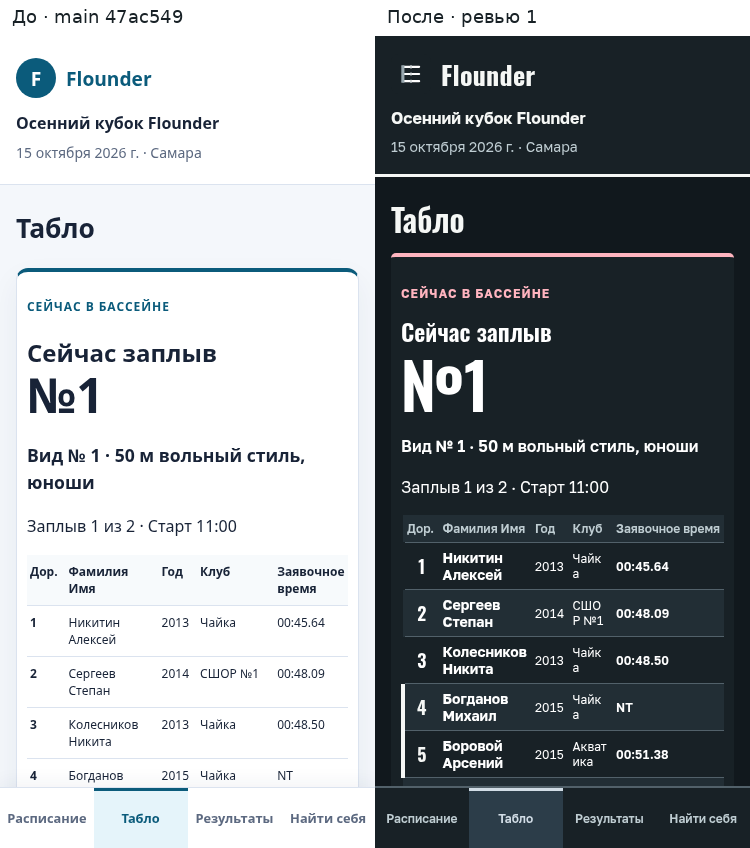
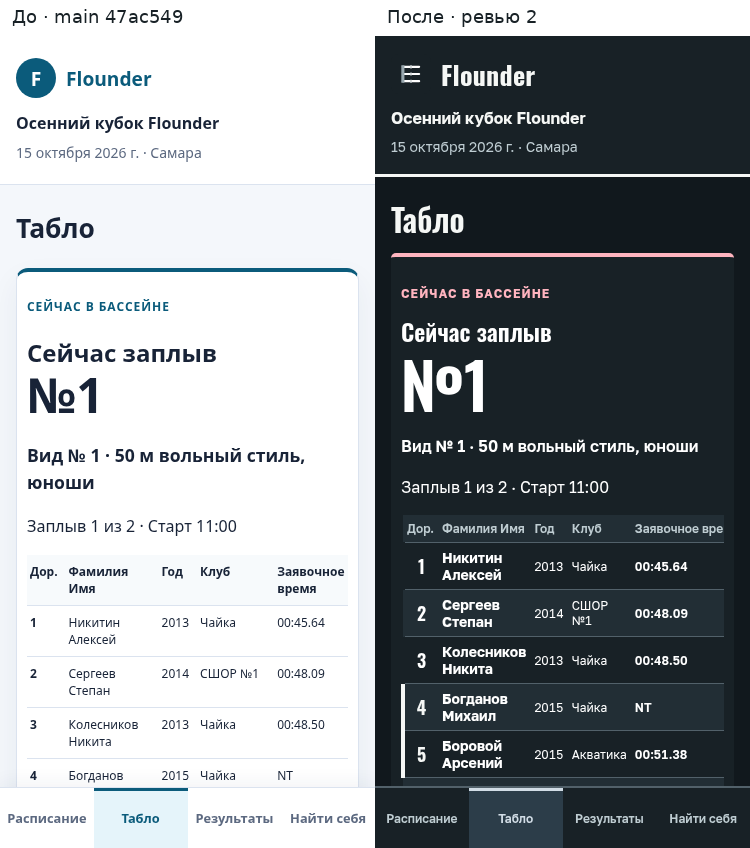
chore(design): document D01 round two and refresh mobile comparisons

Changed region(s): [[0.5827, 0.7665, 0.92, 0.9198], [0.5827, 0.6132, 0.9507, 0.7358], [0.7053, 0.7052, 0.92, 0.7358]]

diff --git a/docs/design/D01_Проверка.md b/docs/design/D01_Проверка.md
@@ -1,6 +1,6 @@
 # D01 — проверка внедрения
 
-13.10.2026, Москва. Ветка `feat/D01-visual-style`, основа `47ac549` (QA06 #21 и M01 #15). Концепция отправлена отдельно коммитом `160e5af`; внедрение предназначено для слияния **после демо 15.10**. Требования: AGENTS.md, D01, QA00, QA06, ТЗ демо §6, MVP §3.6, prototype.html и существующие screenshots.
+13.10.2026, Москва. Ветка `feat/D01-visual-style`, первоначальная база `47ac549` (QA06 #21 и M01 #15); после ревью 2 — ребейз на main `028dc5e` (#29, #39). Концепция отправлена отдельно первоначальным коммитом `160e5af` (после ребейза `b913d66`). **Демо перенесено на 19.10, слияние D01 разрешено по готовности.** Требования: AGENTS.md, D01, QA00, QA06, ТЗ демо §6, MVP §3.6, prototype.html и существующие screenshots.
 
 ## Что изменилось
 
@@ -16,9 +16,9 @@
 
 Шрифты Golos Text/Oswald: два локальных WOFF2, **148 724 байта**, лицензии и происхождение в `public/fonts/README.md`. Иконки 192/512/maskable сгенерированы из SVG (`scripts/generate-d01-icons.mjs`). Manifest генерируется существующим vite-plugin-pwa; `theme_color` и HTML meta — `#182126`. Стратегии SW и API-кэш не менялись; существующий glob для woff2 включает шрифты в offline precache.
 
-В компонентах изменены только CSS-импорты и className. AST изменённых десяти TSX-файлов после исключения этих двух видов изменений совпал с main: **логика, структура JSX и тексты сохранены**. API, миграций и backend-изменений нет.
+В компонентах изменены только CSS-импорты и className. AST изменённых десяти TSX-файлов после исключения этих двух видов изменений совпал с актуальным main `028dc5e`: **логика, структура JSX и тексты сохранены**. API, миграций и backend-изменений нет.
 
-## Размер CSS
+## Размер CSS (измерение ревью 1)
 
 Сумма всех CSS-файлов, одинаковая production-сборка `npm run build`; gzip каждого emitted файла отдельно, фиксированный mtime. JS-бандл не меняется функционально.
 
@@ -28,7 +28,7 @@
 | Emitted CSS | 78 315 B / 20 файлов | 93 652 B / 20 файлов | +15 337 B |
 | Gzip CSS | 24 950 B | 27 472 B | +2 522 B |
 
-## Проверки до ревью 1 (03d5fad) и исходные ограничения
+## Проверки до ревью 1 (первоначальный 03d5fad) и исходные ограничения
 
 | Проверка | Результат |
 |---|---|
@@ -74,7 +74,7 @@ QA05 запущен также на **неизменённом main 47ac549** в
 | Судья: время/CORRECTED/дорожка | [оба viewport до/после](screenshots/D01-judge-detail-comparison.png) | [оба viewport до/после](screenshots/D01-judge-detail-comparison.png) |
 | Результаты | [оба viewport до/после](screenshots/D01-results-comparison.png) | [оба viewport до/после](screenshots/D01-results-comparison.png) |
 
-Всего **15 PNG / 2 106 230 байт** (≤15 файлов, <3 МБ). Остальные снимки, PDF, trace, Lighthouse JSON, расчёты и журналы — в `sport-platform/frontend/work/d01`, `frontend/work/qa05` и корневом `work/d01`; в git не включены.
+Всего **15 PNG / 2 106 323 байт** (≤15 файлов, <3 МБ). Остальные снимки, PDF, trace, Lighthouse JSON, расчёты и журналы — в `sport-platform/frontend/work/d01`, `frontend/work/qa05` и корневом `work/d01`; в git не включены.
 
 ## Что не сделано и почему
 
@@ -83,12 +83,12 @@ QA05 запущен также на **неизменённом main 47ac549** в
 - Физическая установка на Android/iOS: устройства недоступны. Проверены desktop installability и offline PWA, реальная установка на телефоне не утверждается.
 - Открытые функциональные дефекты QA05/QA06 сохранены в своих задачах. Нет утверждения, что полный проект соответствует AA только на основании новых токенов.
 
-ТЗ демо §6/§6.5 сохраняет Inter/голубой primary и старый theme_color; явное задание D01 авторизует замену **после демо**. Демо-стенд/main не обновлялись, слияние/auto-merge не выполнялись. Направление и цветовая семантика одобрены владельцем в этой сессии; слияние остаётся после демо.
+ТЗ демо §6/§6.5 сохраняет Inter/голубой primary и старый theme_color; задание D01 и решение владельца авторизуют замену. После ревью 2 демо перенесено на 19.10: PR разрешено сливать по готовности. Переключатель остаётся в D02.
 
 
 ## Правки по ревью 1
 
-Основание: [комментарий ревью](https://github.com/sergeymcdz-code/flounder/pull/30#issuecomment-6151582153) и последующее решение владельца по п.6. Все правки остаются в PR #30, без слияния и auto-merge. Финальный fetch: `origin/main` — `6e68daa`, включая M02/identity и M09/infra. База сравнений и локальных прогонов D01 — `47ac549`; изменения main не включены в CSS-коммит. Проверка merge-tree с актуальным main — без конфликтов, в том числе LoginPage.tsx и OrganizerHeatsPage.tsx.
+Основание: [комментарий ревью](https://github.com/sergeymcdz-code/flounder/pull/30#issuecomment-6151582153) и последующее решение владельца по п.6. Правки выполнены в PR #30. На момент ревью 1 слияние было отложено; после ревью 2 ограничение снято владельцем. Fetch на момент ревью 1: `origin/main` — `6e68daa`, включая M02/identity и M09/infra. База сравнений и локальных прогонов D01 — `47ac549`; изменения main не включены в CSS-коммит. Проверка merge-tree с актуальным main — без конфликтов, в том числе LoginPage.tsx и OrganizerHeatsPage.tsx.
 
 1. На 375 px th, годы, время и номера не переносятся; фамилии — только между словами. Ячейки 6×4 px, номер 18 px. Таблица при необходимости прокручивается внутри себя (`display:block; overflow-x:auto`) без новых обёрток и без горизонтального скролла документа. В e2e проверяются текстовые Range, а не bounding box td: каждая ячейка времени/года имеет одну текстовую строку.
 2. Border-top карточки входа перенесён после border shorthand; 4 px видимы в обоих viewport. После решения владельца линейка использует новый graphite primary.
@@ -117,6 +117,22 @@ QA05 запущен также на **неизменённом main 47ac549** в
 | Axe AA / production | Без нарушений на событии, auto-dark live/results, hover и клавиатурном фокусе; offline fonts/live работают, внешних запросов нет |
 | Печать | Production PDF start-list/results из автоматической тёмной темы: A4, 15 мм, белые поверхности, чёрные статусы, hidden nav/buttons; screen-only grid/scroll/sticky не протекают |
 | Граница TSX | AST всех 10 изменённых TSX после удаления className/CSS-импортов совпал с исходным main; логика, JSX-узлы и тексты сохранены |
-| Скриншоты | Все 6 приоритетных сравнений обновлены; 2 дополнительных detail-сравнения судьи объединены в один файл, добавлено сравнение results и отдельный live 1366×768; 15 PNG / 2 106 230 B (<3 МБ) |
+| Скриншоты | Все 6 приоритетных сравнений обновлены; 2 дополнительных detail-сравнения судьи объединены в один файл, добавлено сравнение results и отдельный live 1366×768; 15 PNG / 2 106 323 B (<3 МБ) |
 
 Новая таблица контрастов (24 активные пары, минимум 5.60:1), состояния disabled и раздел D02 — в [концепции](D01_Концепция.md). Полные журналы, расчёт CSS, Range-метрики, дополнительные снимки/PDF/Lighthouse/trace — в `frontend/work/d01/review1`, не в git. Миграций, API/RBAC/backend-изменений нет.
+
+
+## Правки по ревью 2
+
+Основание: [ревью 2](https://github.com/sergeymcdz-code/flounder/pull/30#issuecomment-6154123679), `docs/reviews/D01-review-2.md` и уточнение владельца о слиянии. Направление и цветовая семантика одобрены. Старое условие «после демо 15.10» отменено: демо 19.10, D01 разрешено сливать по готовности.
+
+- К `.table td:nth-child(2)` добавлен четвёртый столбец: `overflow-wrap: normal`. Клубы переносятся только по пробелам; nowrap года/времени и прокрутка внутри таблицы сохранены. Правило действует только в screen, печать не менялась.
+- Три e2e на 375 (`start-list`, `live`, `results`) измеряют Range **каждого слова во всех tbody td**, включая слова в многословных клубах. Разрешён перенос между словами, но у одного слова должен быть один уникальный y. На старом CSS все три теста упали на «Чайка», «СШОР», «Акватика» и других клубах: это воспроизведение дефекта, не только проверка computed style.
+- Обновлены `D01-start-list-375`, `D01-live-375` и мобильная половина `D01-results-comparison`; desktop results сохранён. Всего 15 PNG / 2 106 323 B, остальные материалы в work.
+- Ребейз на `origin/main` **028dc5e** прошёл без конфликтов; сохранены изменения #29 (LoginPage) и #39 (OrganizerHeatsPage). AST десяти изменённых TSX после исключения className/CSS-импортов совпал с этой базой. Новых изменений TSX в раунде 2 нет.
+- После `npm ci`: build/lint exit 0, lint 27 существующих предупреждений; Node 1 + Vitest **93 / 21 файл** прошли. Production PWA: 84 precache entries, оба локальных шрифта сохранены.
+- Исходный CSS после ребейза: main 86,515 B / 22 файла → D01 102,956 B / 24 файла (+16,441 B). Таблица emitted/gzip выше относится к измерению ревью 1, не пересчитывалась на новой базе.
+
+`npm run test:qa06`: **36 passed** (25 обычных + 11 expected failures), **4 skipped / 1 failed**, exit 1. Единственное падение — прежний QA06-07/results: disabled `target.nth(2)` до existing expected-failure отметки. Три новые регрессии целых слов прошли, также прошли nowrap года/времени, 8 дорожек над nav, sticky судьи, login border-top и print/dark. Проверки не удалены и не ослаблены.
+
+Повторный QA05 и backend-тесты в этом CSS-раунде не запускались; их прежние результаты выше относятся к исходной базе. Текущие frontend-прогоны выполнены после ребейза. Новых API, миграций, логики, разметки или текстов интерфейса в D01 нет.
